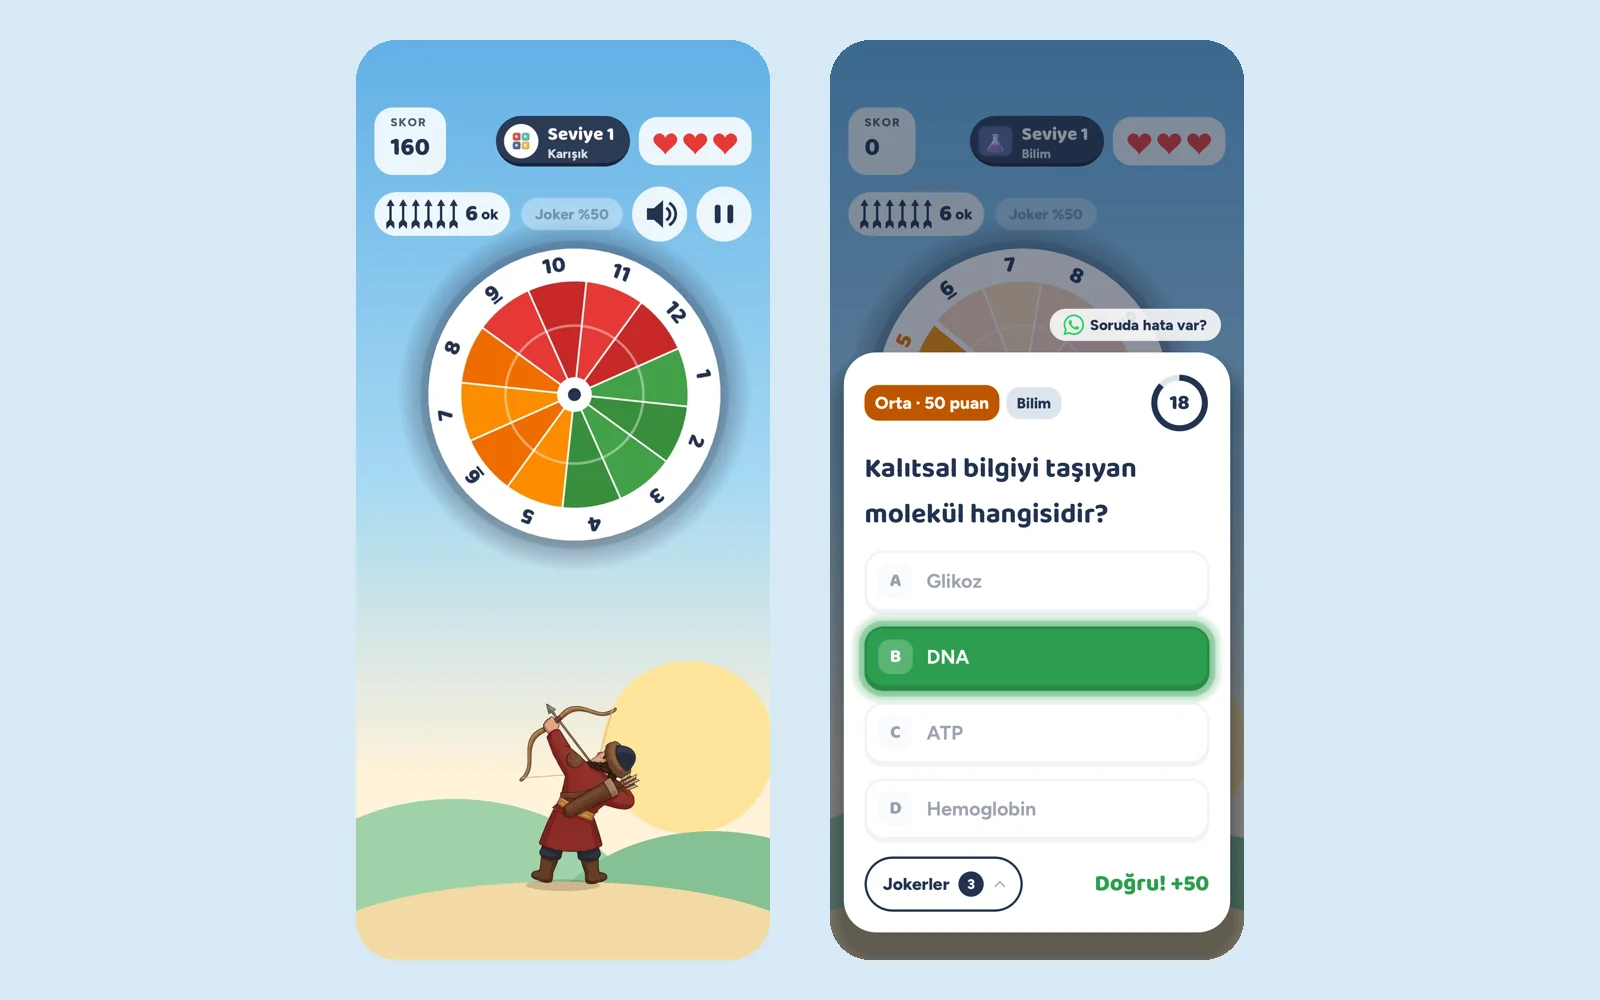
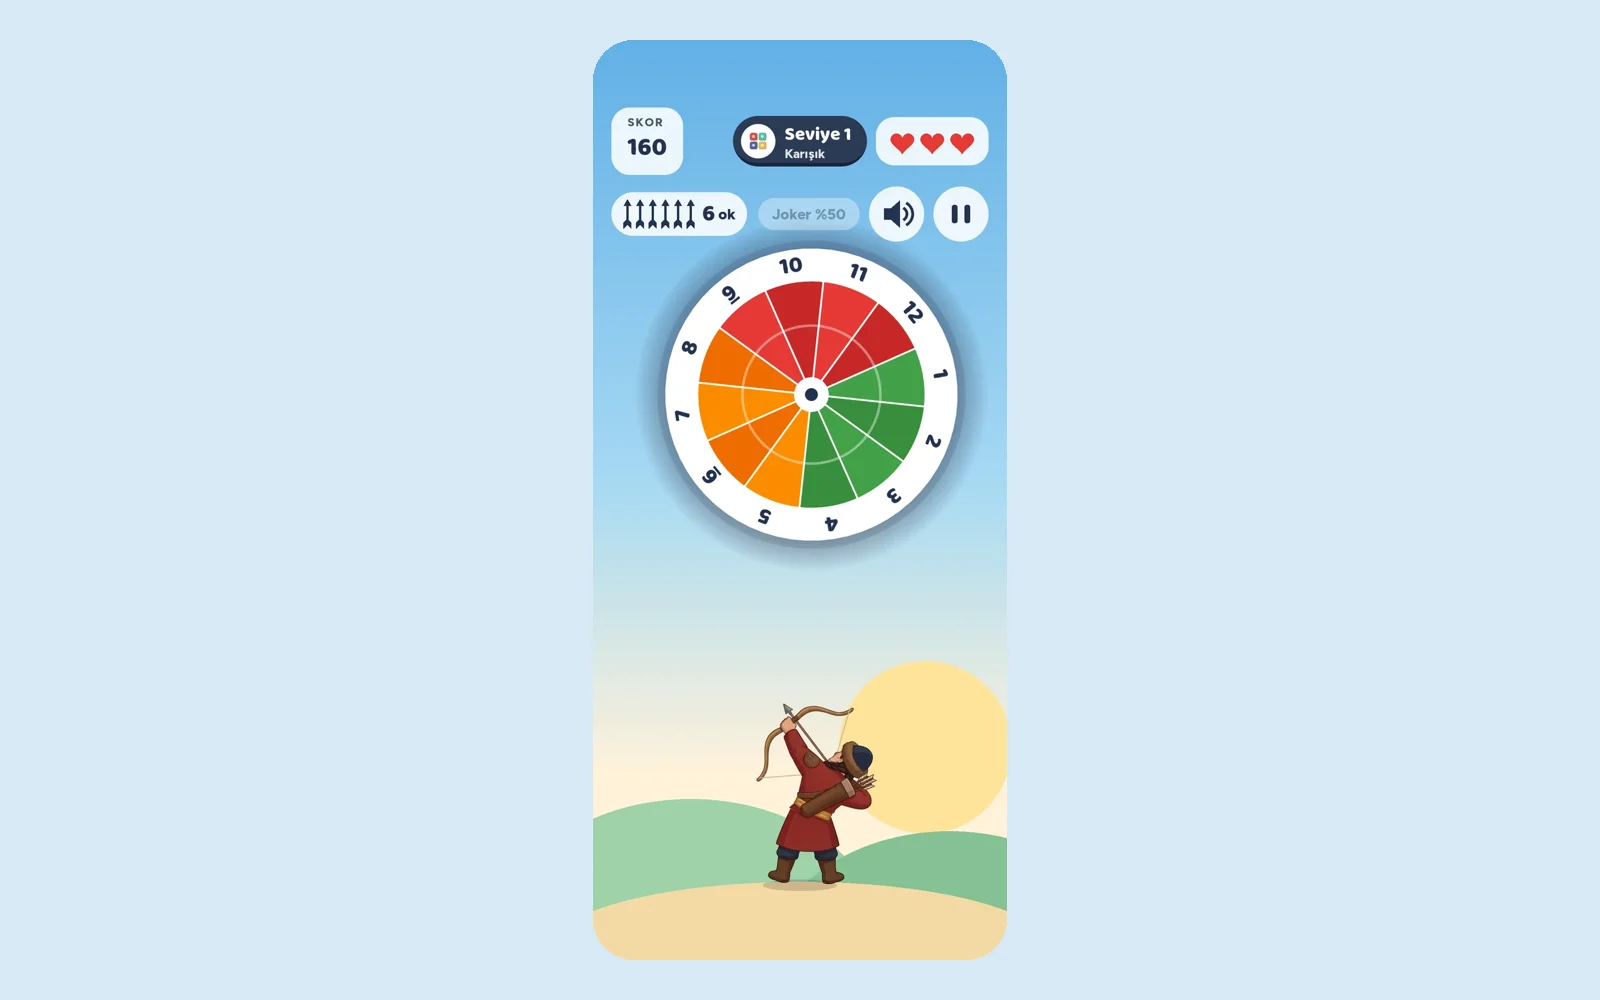
Hero eski tek ekranına döndü; iki meydan kartında çark tam görünür

diff --git a/index.html b/index.html
@@ -154,8 +154,8 @@
     </div>
     <div class="phones">
       <div class="phone">
-        <img class="shot-b" src="img/mod-bilat-b.webp" width="1600" height="1000" fetchpriority="high" alt="Bil At oyun ekranı: okçu dönen hedef tahtasına nişan alıyor, gündüz teması">
-        <img class="shot-c" src="img/mod-bilat-c.webp" width="1600" height="1000" alt="Bil At gece teması: yıldızlı gökyüzünde hedef tahtasına nişan alma">
+        <img class="shot-b" src="img/aim-b.webp" width="720" height="1600" fetchpriority="high" alt="Bil At oyun ekranı: okçu dönen hedef tahtasına nişan alıyor, gündüz teması">
+        <img class="shot-c" src="img/aim-c.webp" width="720" height="1600" alt="Bil At gece teması: yıldızlı gökyüzünde hedef tahtasına nişan alma">
       </div>
       <div class="phone phone-okm">
         <img class="shot-b" src="img/ok-meydani/tur1-sabit.webp" width="1600" height="837" alt="Ok Meydanı: okçunun arkasından testi kulesine nişan, gündüz">
@@ -176,8 +176,8 @@
       <div class="modes">
         <article class="mode" id="mod-bilat">
           <div class="mode-media mode-media-bilat">
-            <img class="shot-b" src="img/aim-b.webp" width="720" height="1600" loading="lazy" decoding="async" alt="Bil At: dönen hedef tahtası ve nişan alan okçu">
-            <img class="shot-c" src="img/aim-c.webp" width="720" height="1600" loading="lazy" decoding="async" alt="Bil At gece: yıldızlı gökyüzünde dönen hedef tahtası">
+            <img class="shot-b" src="img/mod-bilat-b.webp" width="1600" height="1000" loading="lazy" decoding="async" alt="Bil At: dönen hedef tahtası ve nişan alan okçu">
+            <img class="shot-c" src="img/mod-bilat-c.webp" width="1600" height="1000" loading="lazy" decoding="async" alt="Bil At gece: yıldızlı gökyüzünde dönen hedef tahtası">
           </div>
           <span class="mode-chip-tag is-bilat">BİLGİ YARIŞI</span>
           <h3>Bil At</h3>
